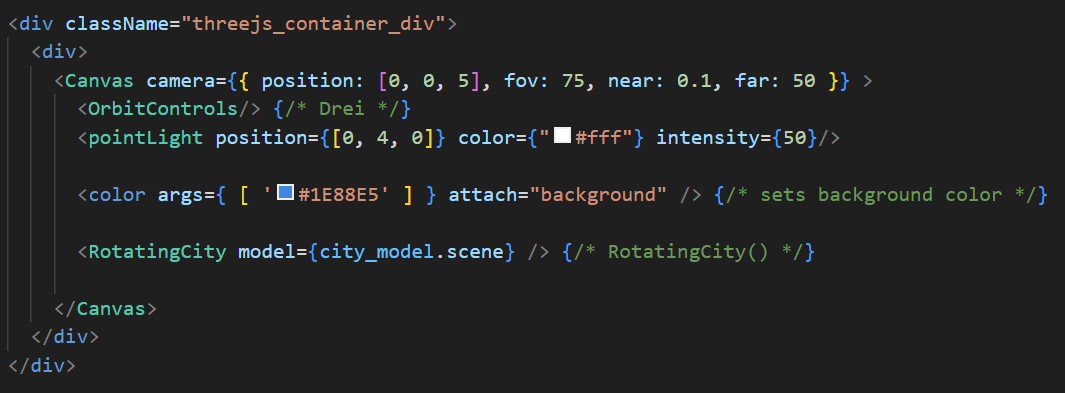
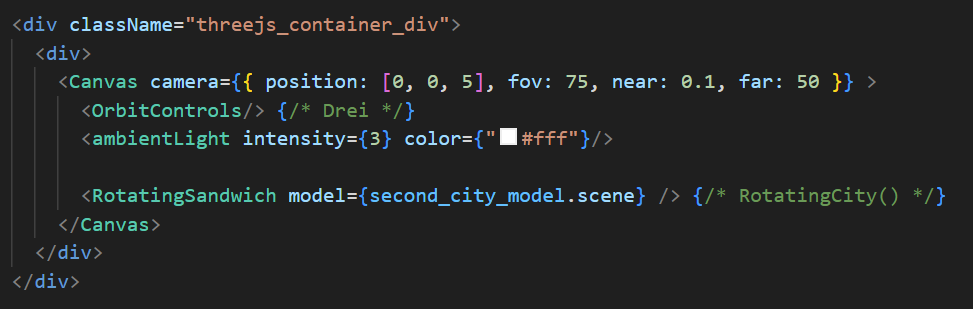
refactor

diff --git a/src/pages/threejs.tsx b/src/pages/threejs.tsx
@@ -2,8 +2,8 @@ import { OrbitControls, Text, useGLTF } from "@react-three/drei"
 import { canvas_example, code_carKnots, code_carLights, code_conditionalRender, code_moonReturn, code_mountReturn, code_stateTracker, conditionalRender_example, example_filestructure, fibre_syntax, glsl_example, group_example, gsap, gsap_example, light_example, meshBasic_flat, meshBasic_withoutFlat, meshStandard_flat, meshStandard_withoutFlat, object_example, primitive_example, primitive_model, second_primitive_model, r3f, threejs_syntax, useframe_1, useframe_2 } from "../constants"
 
 import { Canvas } from '@react-three/fiber'
+import RotatingSandwich from "../components/threejs/rotatingSandwich"
 
-import RotatingCity from "../components/threejs/rotatingCity"
 
 
 
@@ -422,11 +422,9 @@ function ThreeJS(){
         <div>
           <Canvas camera={{ position: [0, 0, 5], fov: 75, near: 0.1, far: 50 }} >
             <OrbitControls/> {/* Drei */}
-
             <ambientLight intensity={3} color={"#fff"}/>
           
-            <RotatingCity model={second_city_model.scene} /> {/* RotatingCity() */}
-
+            <RotatingSandwich model={second_city_model.scene} /> {/* RotatingCity() */}
           </Canvas>
         </div>
       </div>

diff --git a/src/components/threejs/rotatingSandwich.tsx b/src/components/threejs/rotatingSandwich.tsx
@@ -3,9 +3,7 @@ import * as THREE from 'three'
 import {useFrame} from '@react-three/fiber'
 
 
-
-
-function RotatingCity({ model }: { model: THREE.Object3D }) {// input object rotates using useFrame()
+function RotatingSandwich({ model }: { model: THREE.Object3D }) {// input object rotates using useFrame()
   //const primitive_group = useRef<THREE.Group>(null); //useRef for a <group/> if you are curious.
 
   const primitive = useRef<THREE.Object3D>(null);
@@ -27,4 +25,4 @@ function RotatingCity({ model }: { model: THREE.Object3D }) {// input object rot
   
 }
 
-export default RotatingCity
+export default RotatingSandwich
